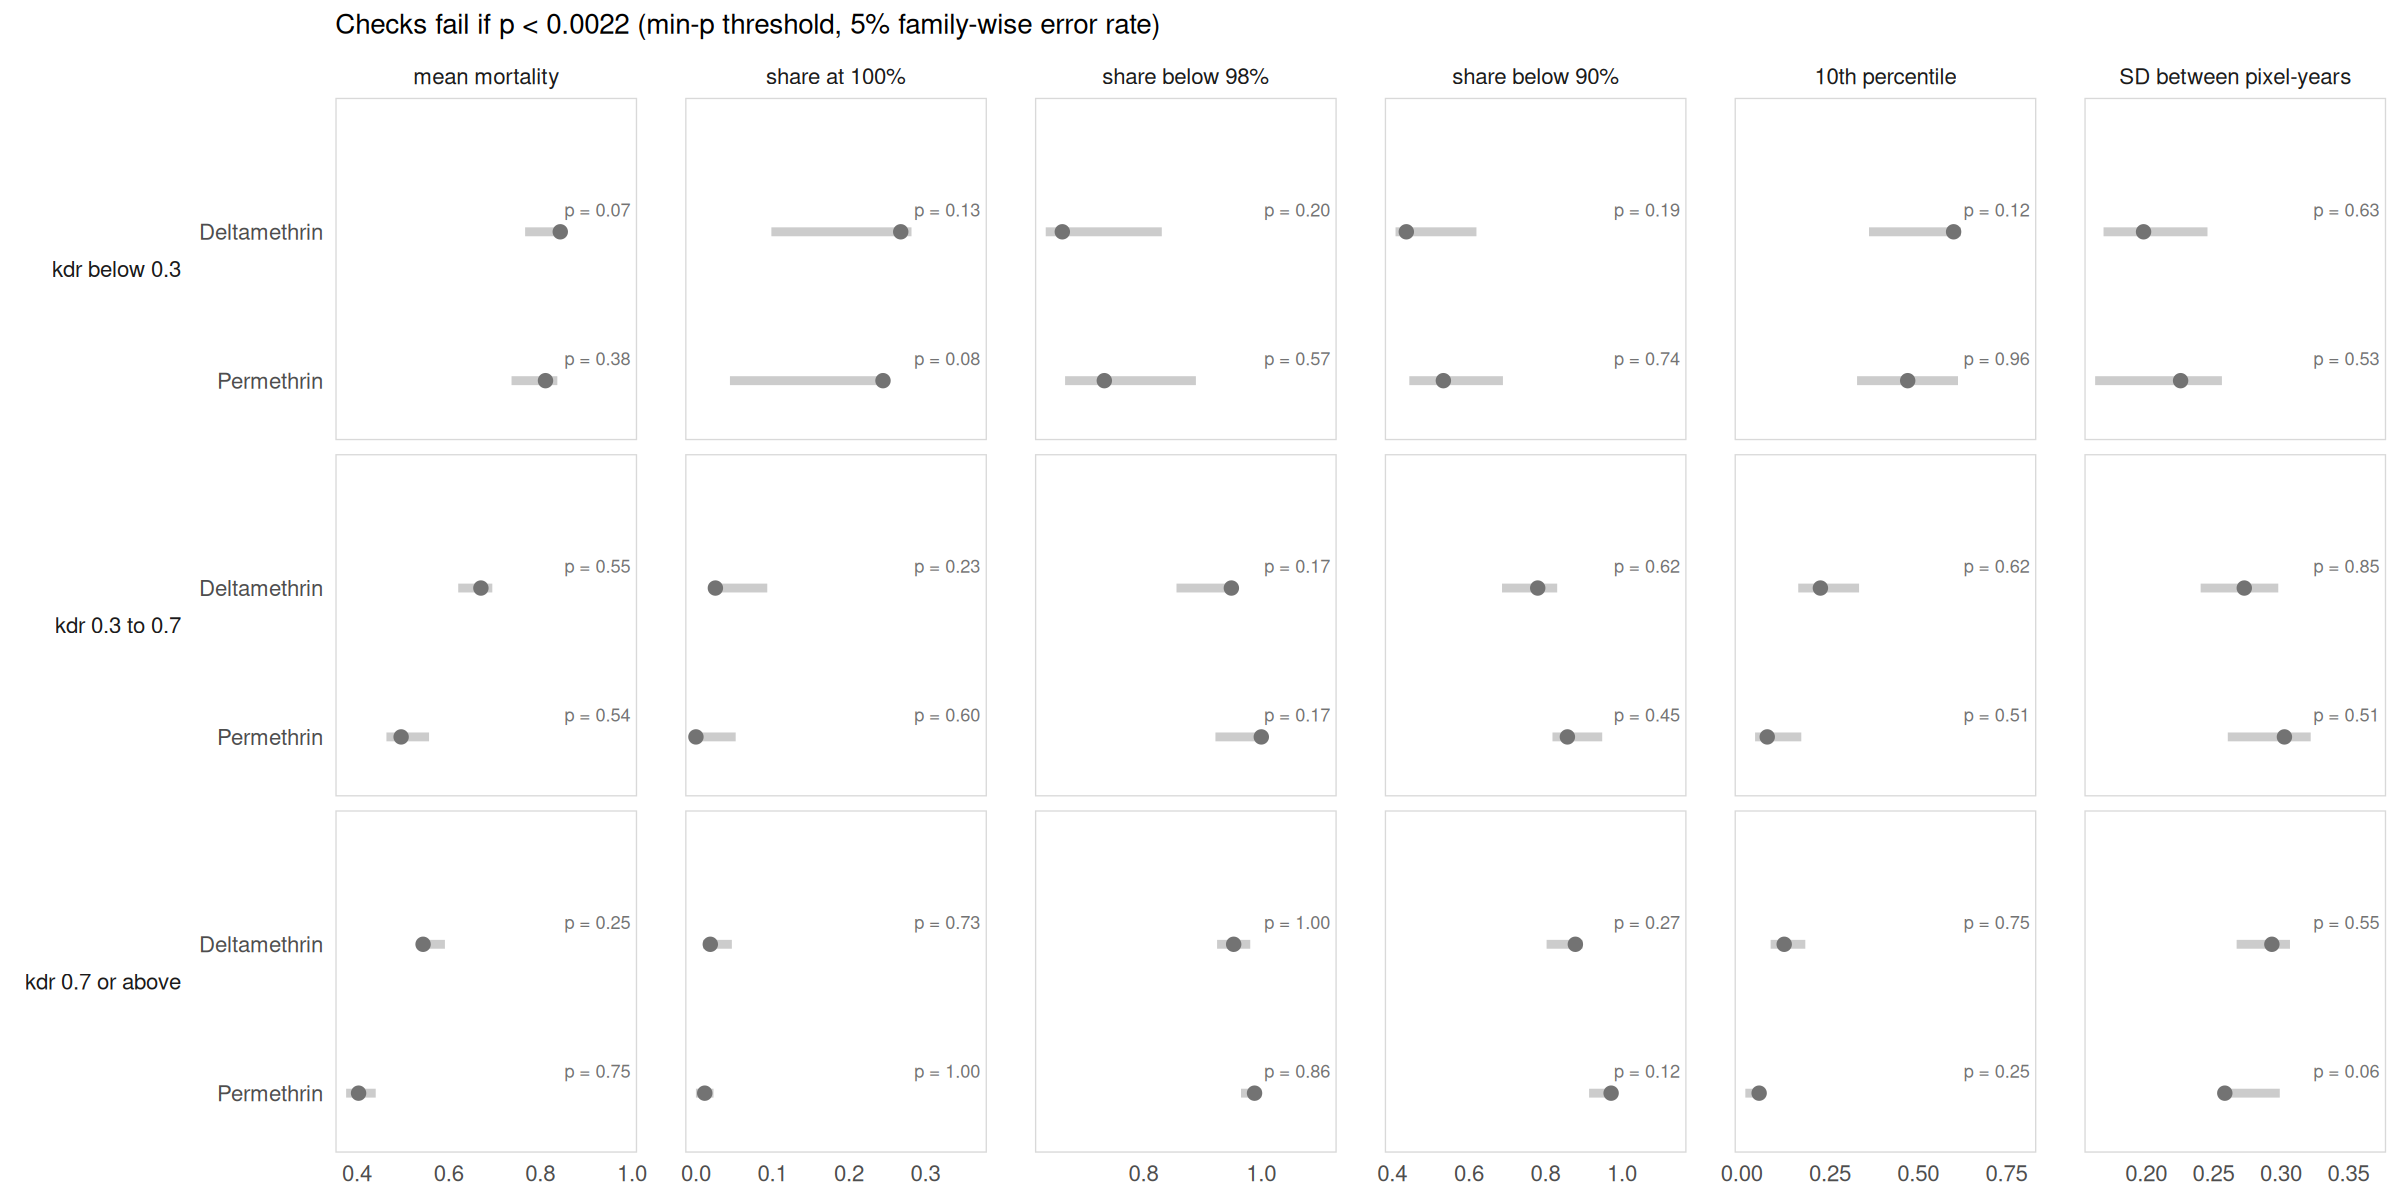
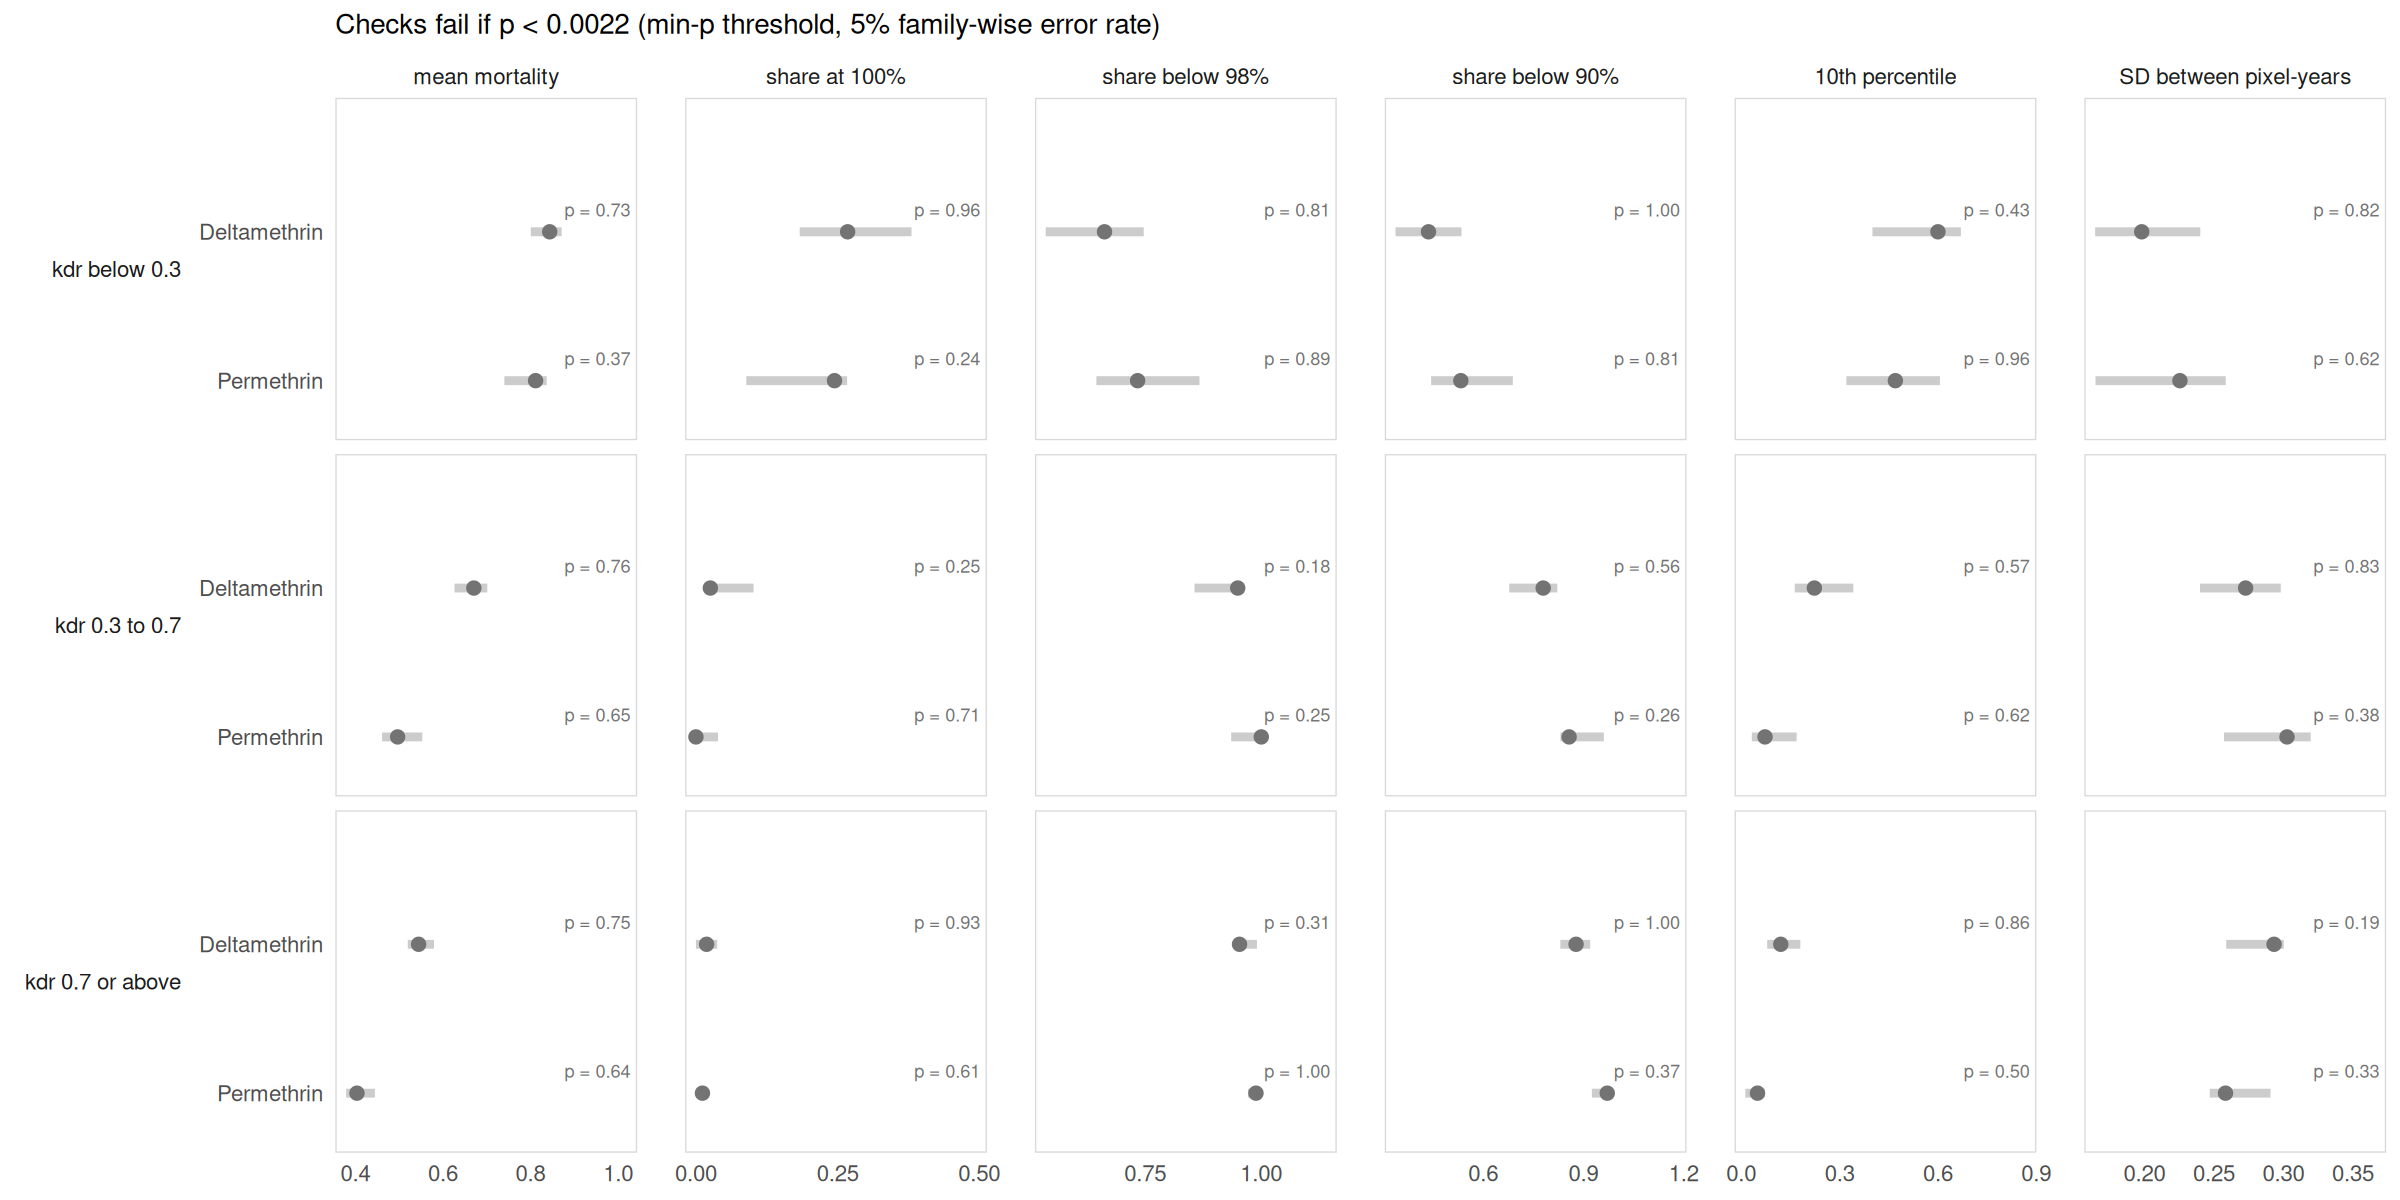
Make the kdr predictor a hazard model with co-selection
Claude-Session: https://claude.ai/code/session_011UystUnNdjqoTvwox5q2LN

diff --git a/README.md b/README.md
@@ -34,7 +34,9 @@ differs from that of An. gambiae and An. coluzzii.
    each sample's pixel, species group, collection year and how its
    mosquitoes were collected.
 4. `R/fit_kdr_predictor.R`: a Bayesian model (fitted with greta) of
-   pyrethroid bioassay survival as a function of kdr allele frequency, with
+   pyrethroid bioassay survival as a function of kdr allele frequency: a
+   hazard model in which kdr and other drivers of resistance, correlated
+   with kdr frequency, lower the hazard of dying in the bioassay, with
    posterior predictive checks. greta is installed from its GitHub repository
    (the version in `renv.lock`) and needs Python and TensorFlow: run
    `greta::greta_set_python("uv")` once before the first run.
